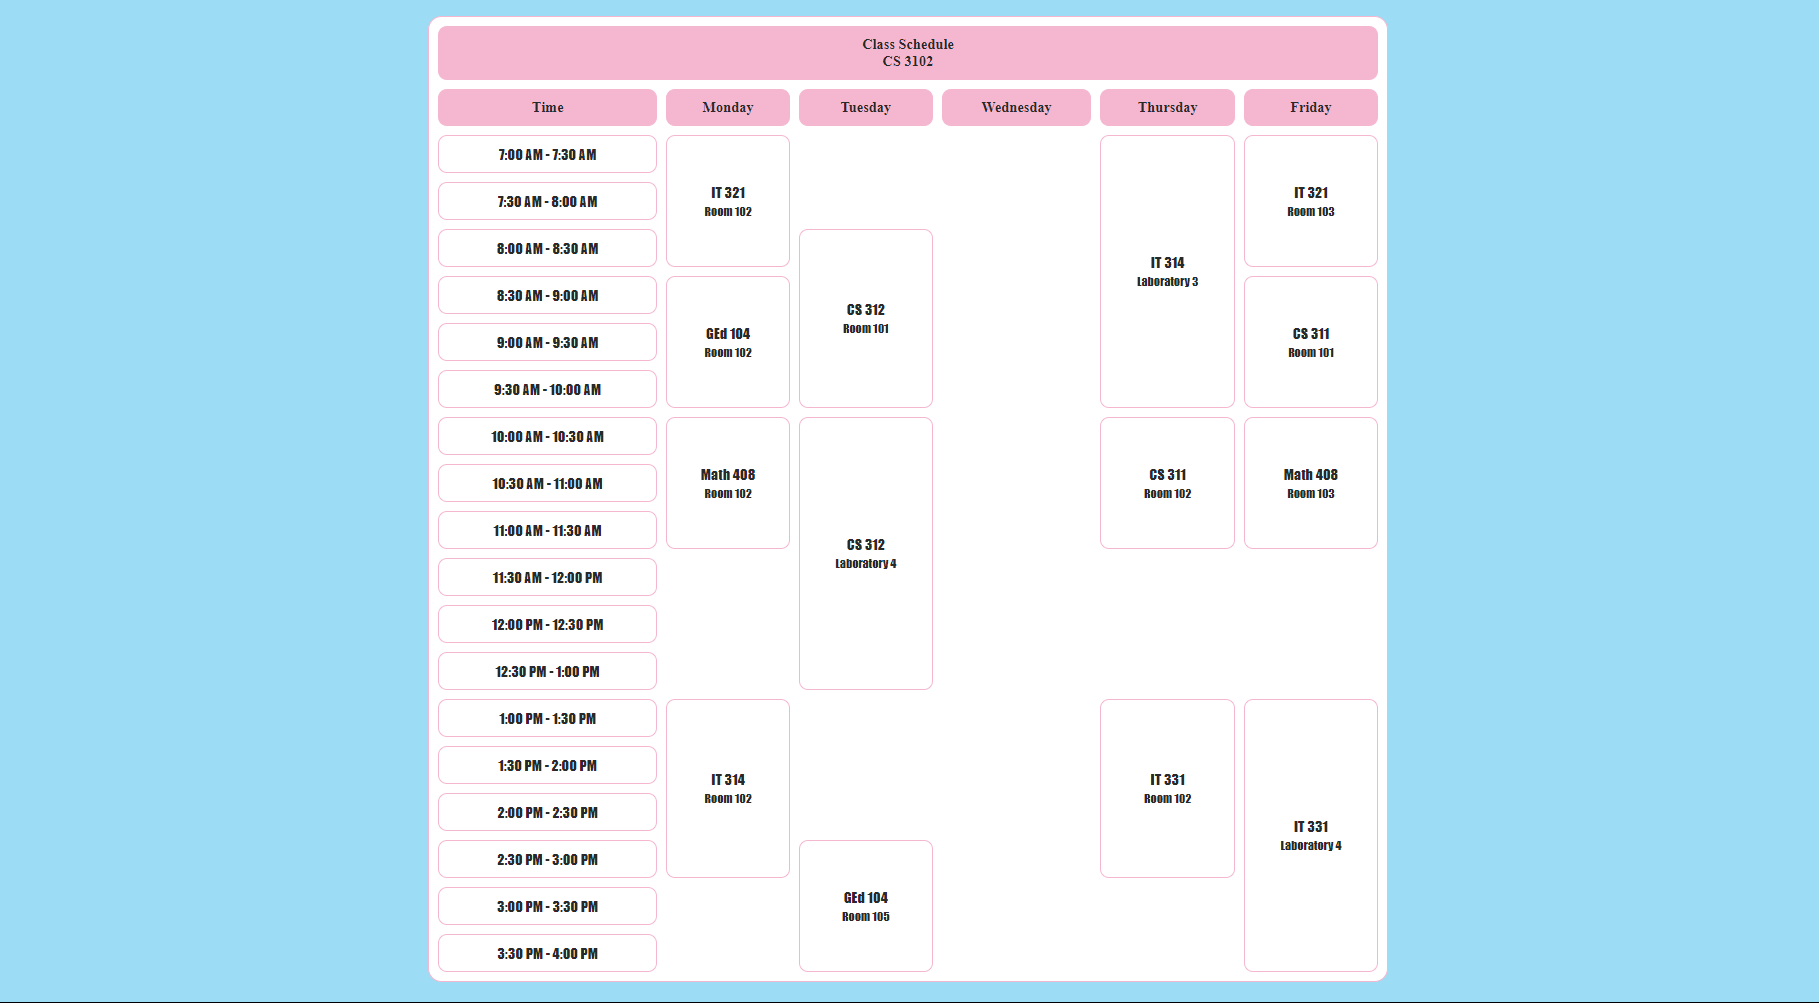
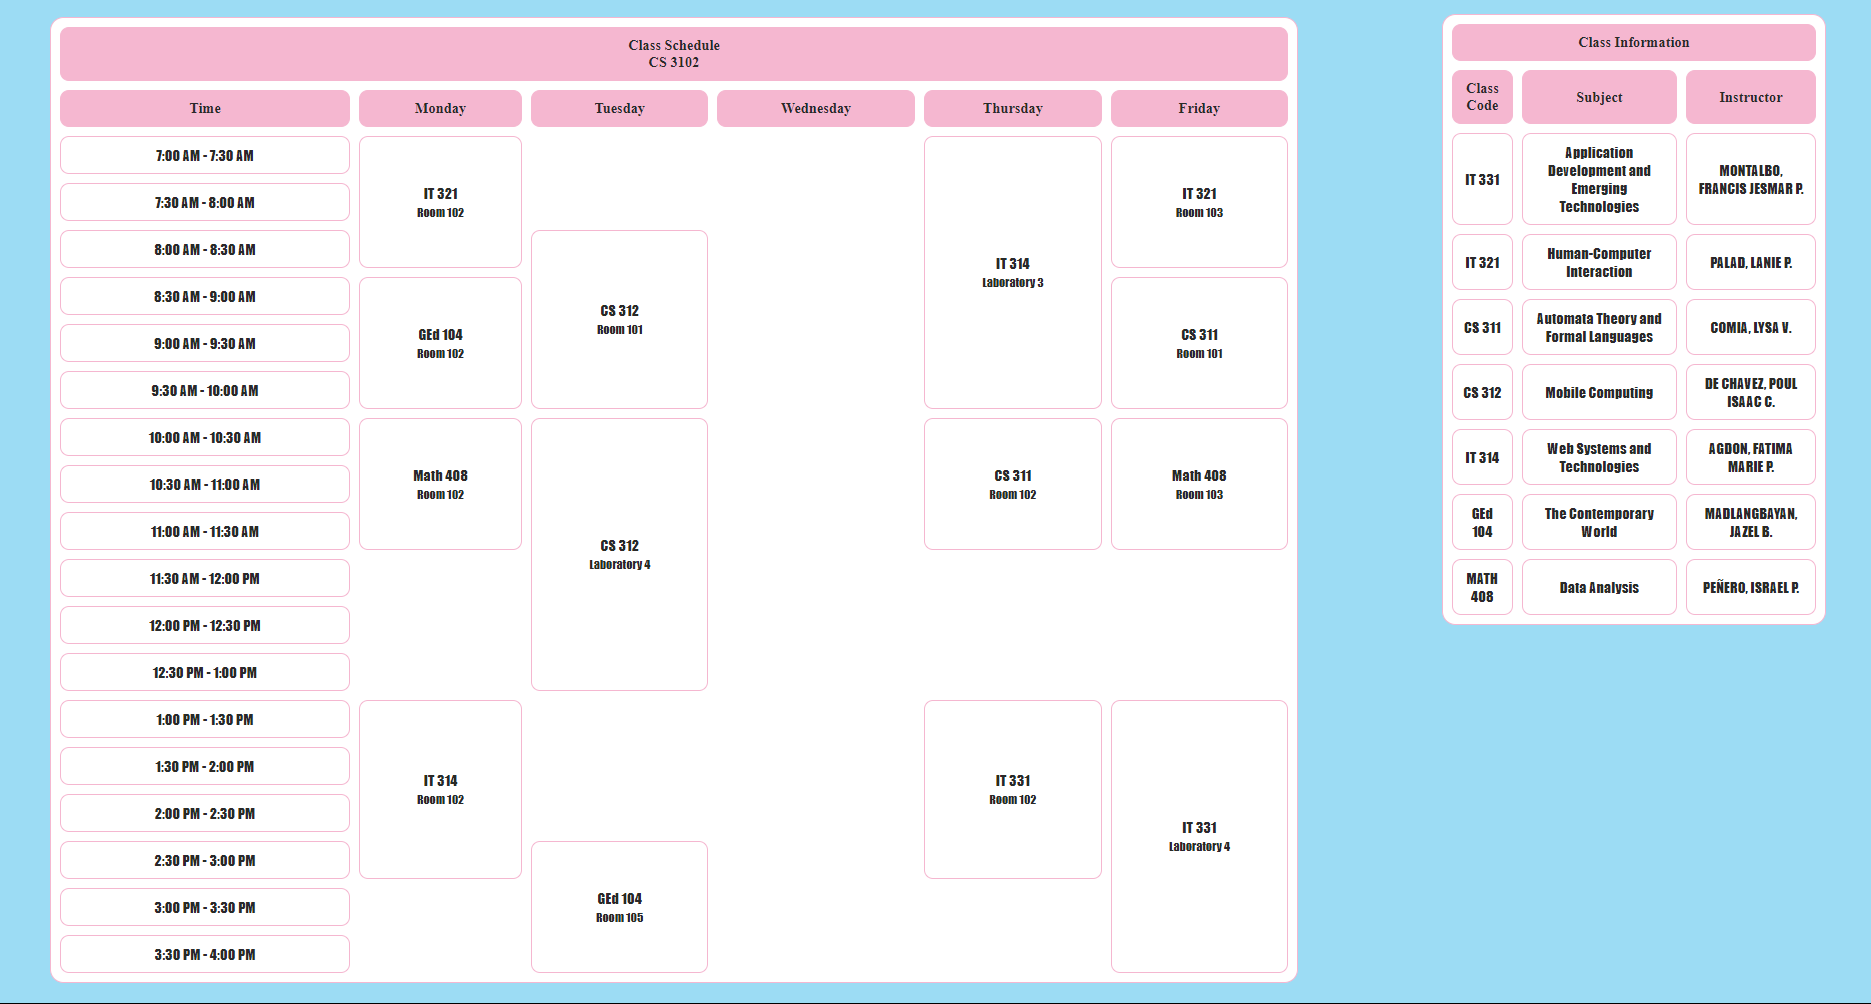
Submit LabAct 1

diff --git a/Laboratory Activities/Laboratory Activity 1 {September 5, 2004}/html-tables.html b/Laboratory Activities/Laboratory Activity 1 {September 5, 2004}/html-tables.html
@@ -6,7 +6,7 @@
     <title>Class Schedule</title>
 </head>
 <body style="background-color: #9cdcf4; color: #292929; font-family: Impact, sans-serif; margin: 0; display: flex; justify-content: center; align-items: center; height: 100vh;">
-    <table style="width: 50%; border-spacing: 10px; border: 2px solid #f5b7d0; border-radius: 15px; margin: auto; background-color: #ffffff;">
+    <table style="width: 65%; border-spacing: 10px; border: 2px solid #f5b7d0; border-radius: 15px; margin: auto; background-color: #ffffff;">
         <tr>
             <th colspan="6" style="border: 1px solid #f5b7d0; text-align: center; padding: 10px; border-radius: 10px; background-color: #f5b7d0; color: #292929; font-family: Baskerville, serif;">Class Schedule <br> CS 3102</th>
         </tr>
@@ -93,5 +93,51 @@
             <td style="border: 1px solid #f5b7d0; text-align: center; padding: 10px; border-radius: 10px;">3:30 PM - 4:00 PM</td>
         </tr>
     </table>
+    <table style="width: 20%; border-spacing: 10px; border: 2px solid #f5b7d0; border-radius: 15px; margin: auto; background-color: #ffffff; margin-top: 20px;">
+        <tr>
+            <th colspan="3" style="border: 1px solid #f5b7d0; text-align: center; padding: 10px; border-radius: 10px; background-color: #f5b7d0; color: #292929; font-family: Baskerville, serif;">Class Information</th>
+        </tr>
+        <tr>
+            <th style="border: 1px solid #f5b7d0; text-align: center; padding: 10px; border-radius: 10px; background-color: #f5b7d0; color: #292929; font-family: Baskerville, serif;">Class Code</th>
+            <th style="border: 1px solid #f5b7d0; text-align: center; padding: 10px; border-radius: 10px; background-color: #f5b7d0; color: #292929; font-family: Baskerville, serif;">Subject</th>
+            <th style="border: 1px solid #f5b7d0; text-align: center; padding: 10px; border-radius: 10px; background-color: #f5b7d0; color: #292929; font-family: Baskerville, serif;">Instructor</th>
+        </tr>
+        <tr>
+            <td style="border: 1px solid #f5b7d0; text-align: center; padding: 10px; border-radius: 10px;">IT 331</td>
+            <td style="border: 1px solid #f5b7d0; text-align: center; padding: 10px; border-radius: 10px;">Application Development and Emerging Technologies</td>
+            <td style="border: 1px solid #f5b7d0; text-align: center; padding: 10px; border-radius: 10px;">MONTALBO, FRANCIS JESMAR P.</td>
+        </tr>
+        <tr>
+            <td style="border: 1px solid #f5b7d0; text-align: center; padding: 10px; border-radius: 10px;">IT 321</td>
+            <td style="border: 1px solid #f5b7d0; text-align: center; padding: 10px; border-radius: 10px;">Human-Computer Interaction</td>
+            <td style="border: 1px solid #f5b7d0; text-align: center; padding: 10px; border-radius: 10px;">PALAD, LANIE P.</td>
+        </tr>
+        <tr>
+            <td style="border: 1px solid #f5b7d0; text-align: center; padding: 10px; border-radius: 10px;">CS 311</td>
+            <td style="border: 1px solid #f5b7d0; text-align: center; padding: 10px; border-radius: 10px;">Automata Theory and Formal Languages</td>
+            <td style="border: 1px solid #f5b7d0; text-align: center; padding: 10px; border-radius: 10px;">COMIA, LYSA V.</td>
+        </tr>
+        <tr>
+            <td style="border: 1px solid #f5b7d0; text-align: center; padding: 10px; border-radius: 10px;">CS 312</td>
+            <td style="border: 1px solid #f5b7d0; text-align: center; padding: 10px; border-radius: 10px;">Mobile Computing</td>
+            <td style="border: 1px solid #f5b7d0; text-align: center; padding: 10px; border-radius: 10px;">DE CHAVEZ, POUL ISAAC C.</td>
+        </tr>
+        <tr>
+            <td style="border: 1px solid #f5b7d0; text-align: center; padding: 10px; border-radius: 10px;">IT 314</td>
+            <td style="border: 1px solid #f5b7d0; text-align: center; padding: 10px; border-radius: 10px;">Web Systems and Technologies</td>
+            <td style="border: 1px solid #f5b7d0; text-align: center; padding: 10px; border-radius: 10px;">AGDON, FATIMA MARIE P.</td>
+        </tr>
+        <tr>
+            <td style="border: 1px solid #f5b7d0; text-align: center; padding: 10px; border-radius: 10px;">GEd 104</td>
+            <td style="border: 1px solid #f5b7d0; text-align: center; padding: 10px; border-radius: 10px;">The Contemporary World</td>
+            <td style="border: 1px solid #f5b7d0; text-align: center; padding: 10px; border-radius: 10px;">MADLANGBAYAN, JAZEL B.</td>
+        </tr>
+        <tr>
+            <td style="border: 1px solid #f5b7d0; text-align: center; padding: 10px; border-radius: 10px;">MATH 408</td>
+            <td style="border: 1px solid #f5b7d0; text-align: center; padding: 10px; border-radius: 10px;">Data Analysis</td>
+            <td style="border: 1px solid #f5b7d0; text-align: center; padding: 10px; border-radius: 10px;">PEÑERO, ISRAEL P.</td>
+        </tr>
+    </table>
+    
 </body>
 </html>
